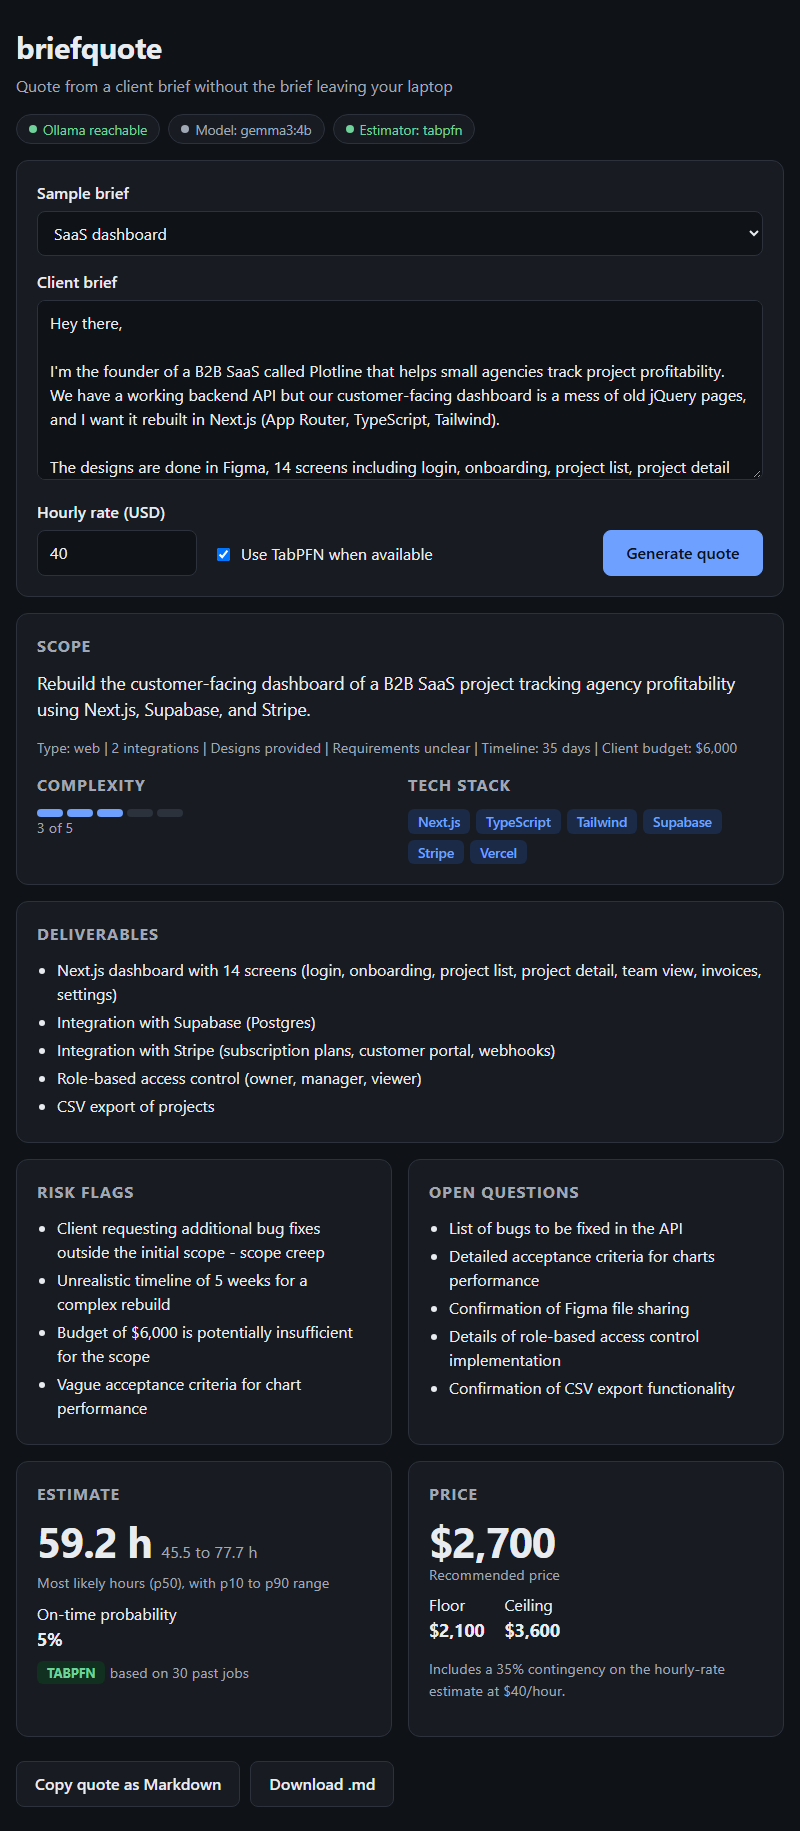
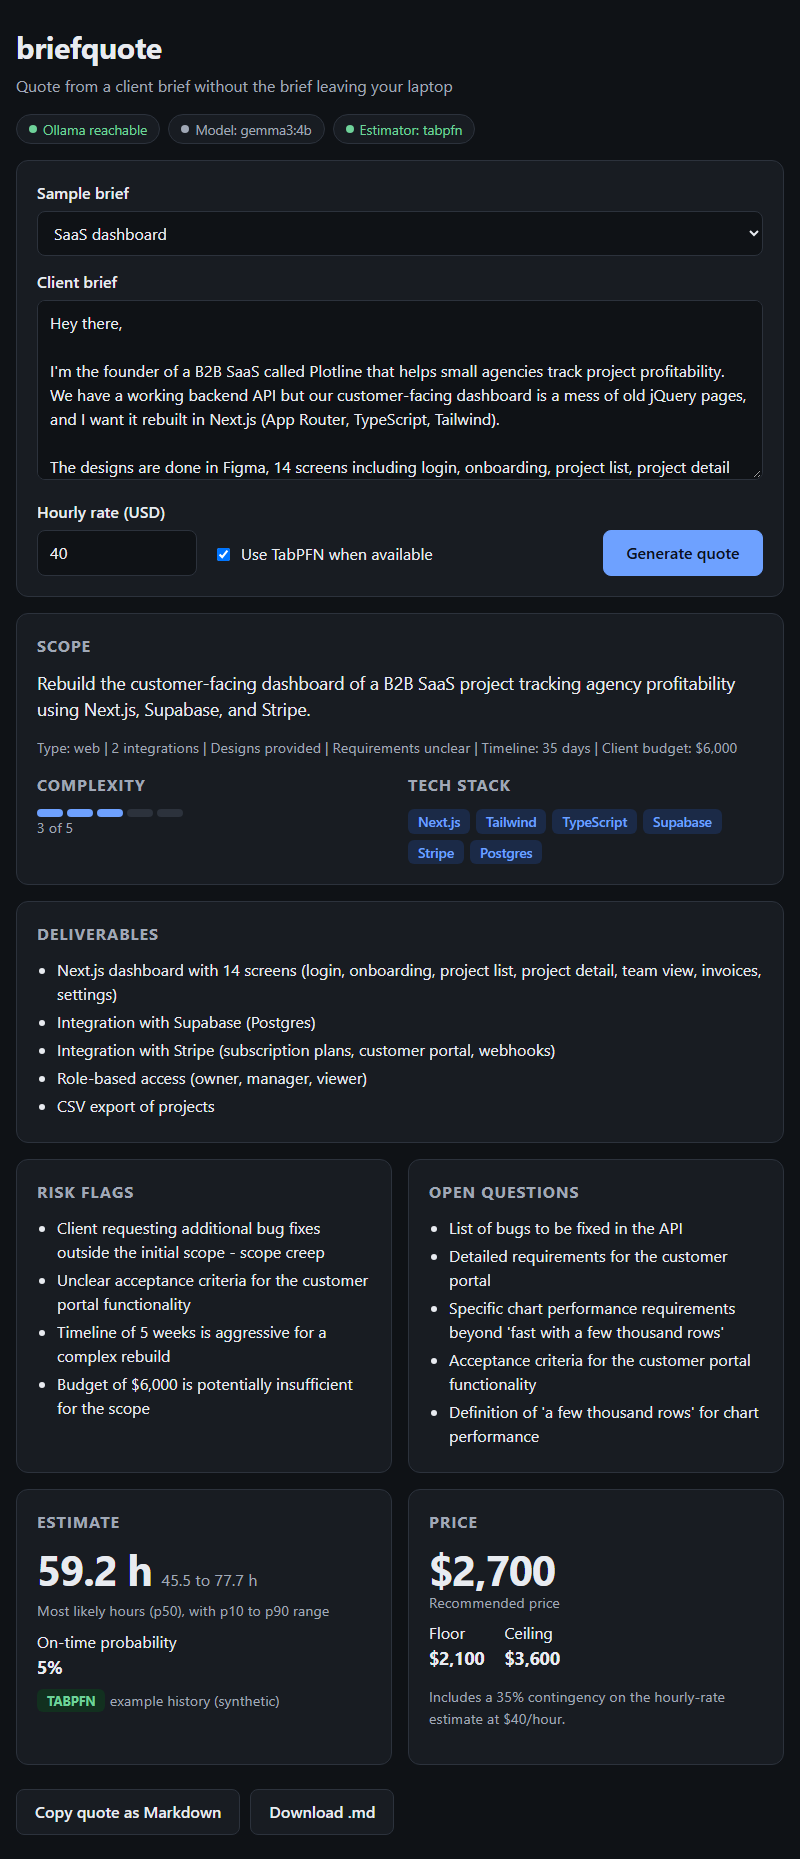
Refresh screenshot and label hand-written example output and in-sample tuning

diff --git a/README.md b/README.md
@@ -64,6 +64,8 @@ briefquote quote examples/briefs/saas-dashboard.txt --rate 50 --save-scope scope
 
 ![briefquote web UI showing a generated quote](docs/screenshot.png)
 
+*Result of a real run, rendered from the page content with a headless browser.*
+
 ![briefquote demo: a real Gemma run on the SaaS sample brief](docs/demo.gif)
 
 *Real run on CPU. The wait is shortened: the model took about a minute, and the elapsed counter in the frames is genuine. The history behind the estimate is synthetic example data.*
@@ -123,8 +125,12 @@ Checked on 8 real client briefs ([docs/real-brief-check.md](docs/real-brief-chec
 - The bundled history is synthetic, so prices and hours are illustration, not validated estimates.
 - The extraction is a checklist and clarifying-question generator, not a replacement for reading the brief.
 - Long briefs now raise Ollama's context window automatically, up to a limit; beyond it the tool errors and asks you to shorten or split the brief instead of silently truncating.
+- The prompt was tuned on the three sample briefs, so results on those are in-sample; the 8 real briefs are the only held-out check.
+- The client-facing Markdown includes an on-time probability sentence. With the bundled synthetic history it is an illustration, and for briefs the model marks as unclear it reads 5%; remove or ignore that line before sending anything to a client.
 
 ## Sample quote (trimmed)
+
+This comes from the hand-written reference scope in examples/sample_extraction.json, not from a model run.
 
 ```markdown
 # Project quote
@@ -169,6 +175,8 @@ The bundled history is synthetic (see `data/README.md`). Replace `data/past_jobs
 Cancelled jobs are ignored for hours and price but count toward the on-time probability. 20 or more rows work well. Do not trust estimates from the bundled synthetic file.
 
 ## Example output
+
+This comes from the hand-written reference scope in examples/sample_extraction.json, not from a model run.
 
 ```json
 {

diff --git a/docs/real-brief-check.md b/docs/real-brief-check.md
@@ -7,7 +7,7 @@ The three example briefs in this repo were written by an AI for the demo. This i
 ## Method
 
 - Source: public Upwork job posts, read through a read-only job-search connector, all posted on 2026-10-14 or 2026-10-15.
-- Selection: software, AI/automation, data or web build posts with at least 80 words of description, from clients outside a short list of excluded countries. 8 briefs across data scraping, data engineering, AI automation, an AI agent and two website builds, including one long brief (763 words) and one very short, vague one (95 words).
+- Selection: software, AI/automation, data or web build posts with at least 80 words of description, with a few client countries skipped because of the author's own bidding preferences, which is a small selection bias. 8 briefs across data scraping, data engineering, AI automation, an AI agent and two website builds, including one long brief (763 words) and one very short, vague one (95 words).
 - Cleaning: client, company, product and people names, emails, phone numbers and URLs were replaced by `[removed]` before use. The cleaned texts were kept only in a scratch folder outside the repo and deleted afterwards. **The briefs are not republished here.** This file contains no quotes, job titles, client names or links.
 - Run: `briefquote quote <file> --save-scope <scope.json>` per brief, with real Gemma extraction.
 - Judging: I compared each extraction with its brief and tallied defects by severity (High: drops or misstates a large part of the scope; Medium: would mislead the quote or needs a real fix; Low: cosmetic, generic or arguable).
